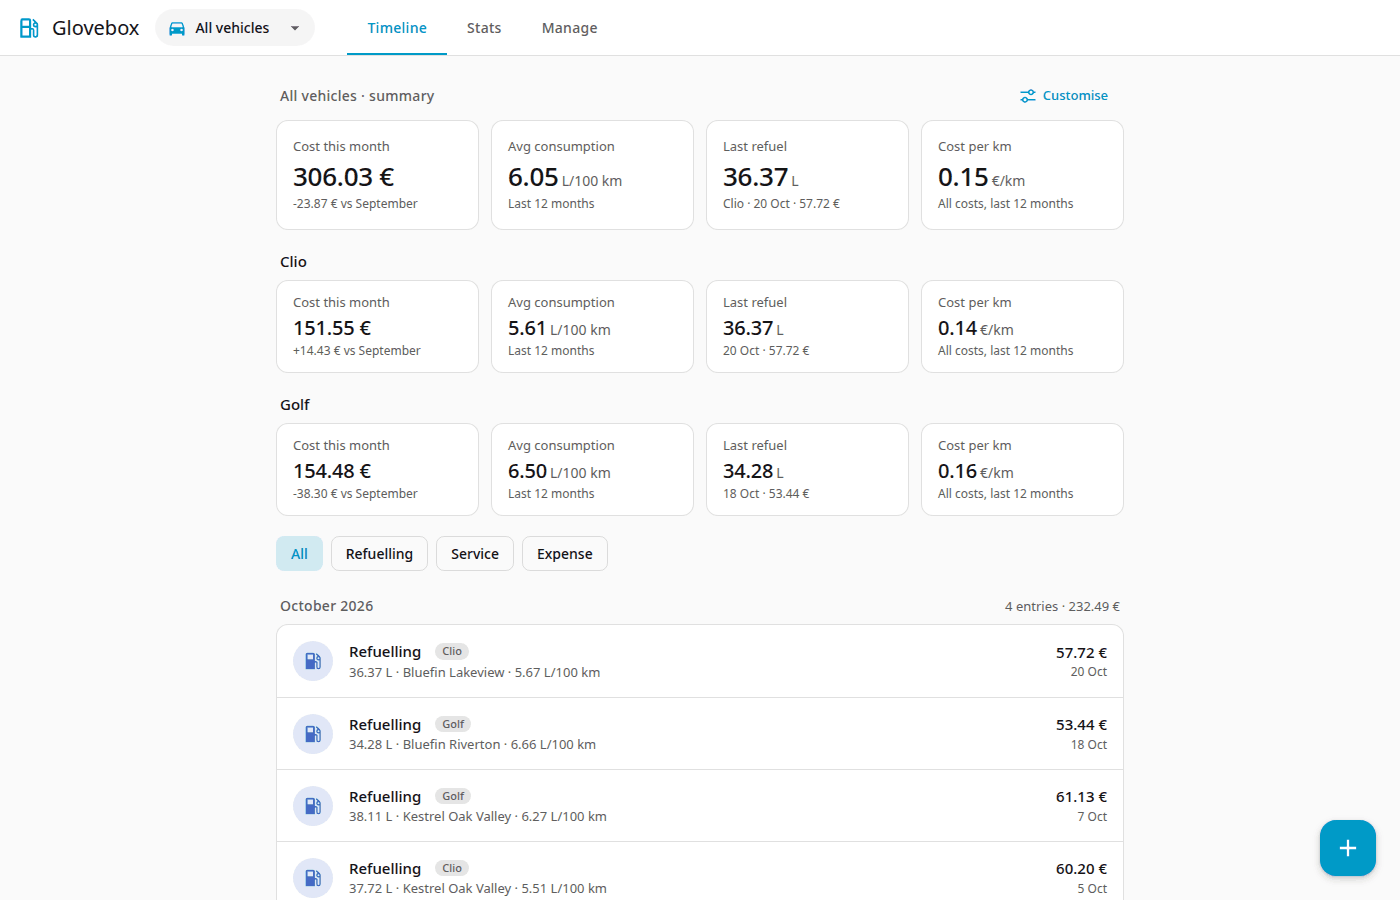
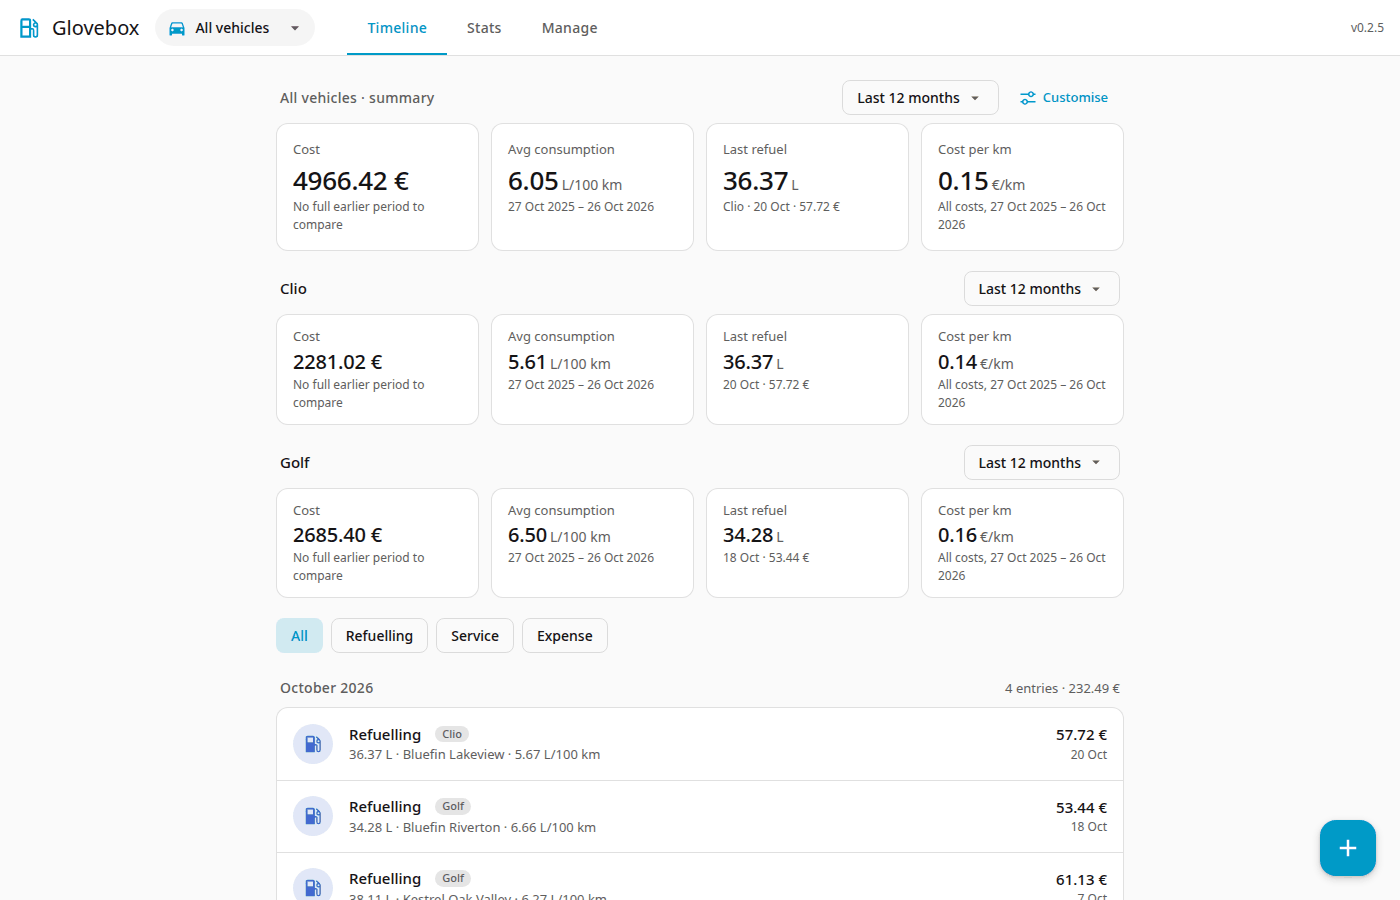
Refresh outdated docs screenshots, drop chooser from reminders spec

diff --git a/openspec/changes/add-reminders/design.md b/openspec/changes/add-reminders/design.md
@@ -73,7 +73,7 @@ The chosen calendar is one row in the existing `setting` table (`reminders.calen
 
 ### D2. UI
 
-All UI work goes through the living mockup `.mockups/ui-v2/` first (task 2.1), then into the app. The standard elements from `docs/dev/design.md` are reused: list card and rows, dialog, buttons, floating button chooser, sub-page header, messages.
+All UI work goes through the living mockup `.mockups/ui-v2/` first (task 2.1), then into the app. The standard elements from `docs/dev/design.md` are reused: list card and rows, dialog, buttons, floating button, sub-page header, messages.
 
 - **Timeline "Due soon" card:** a list card above the summary cards. It shows open reminders whose remind date has arrived, filtered by the app-bar vehicle (with all vehicles, the vehicle name is in each row). Order: overdue first, then by due date. Each row shows:
   - category icon, title, vehicle;
@@ -87,7 +87,7 @@ All UI work goes through the living mockup `.mockups/ui-v2/` first (task 2.1), t
   - the calendar setting (D4) with a status line.
 
   A row whose calendar state is not `synced` or `none` shows its message in one line.
-- **Reminder dialog** (also from a "Reminder" entry in the floating add chooser):
+- **Reminder dialog** (from "Add reminder" on the Reminders page):
   - fields: vehicle, title, category, due date, "Notify … days before" (default 30), notes;
   - in the edit dialog also: Download .ics, Mark done (or Reopen), Delete, "Created from: <expense>" when linked, and "Sync now" when not synced.
 - **"Remind me" on an expense:** a button in the expense edit dialog opens the reminder dialog pre-filled with:

diff --git a/openspec/changes/add-reminders/proposal.md b/openspec/changes/add-reminders/proposal.md
@@ -8,7 +8,7 @@ Insurance, registration and services come due once a year or so, and Glovebox al
 - **Quick create:**
   - "Remind me" on an expense: due date = coverage end if set, else expense date + 1 year.
   - From the vehicle's insurance and registration "valid until" dates (added by the concurrent vehicle-details change): a reminder linked to the date that moves with it.
-- **Timeline:** a "Due soon" card at the top for open reminders whose notify date has arrived, overdue first. A Reminders page (from the card and from Manage) lists all of them. The add chooser gets "Reminder".
+- **Timeline:** a "Due soon" card at the top for open reminders whose notify date has arrived, overdue first. A Reminders page (from the card and from Manage) lists all of them. The Reminders page has "Add reminder".
 - **Calendars:**
   1. **HA calendar (add-on mode):** the user picks any calendar entity HA can create events in.
      - Each open reminder becomes an all-day event on the due date, e.g. "Golf: Registration due". The description carries a machine-readable "Notify 30 days before" line and a marker line.

diff --git a/openspec/changes/add-reminders/tasks.md b/openspec/changes/add-reminders/tasks.md
@@ -22,7 +22,7 @@
 
 ## 2. UI (design iteration first)
 - [x] 2.1 (done 2026-10-23; the user has not reviewed the mockup yet) Add to `.mockups/ui-v2/`: the "Due soon" card, the Reminders page (with the calendar setting and status lines), the reminder dialog, "Remind me" in the expense dialog and form, the vehicle date switches. Desktop and phone, light and dark; record it in `NOTES.md`; get the user's feedback before 2.2.
-- [x] 2.2 `web/reminders.py` and templates: Reminders page, reminder dialog (default 30 days), add-chooser entry, Manage row.
+- [x] 2.2 `web/reminders.py` and templates: Reminders page, reminder dialog (default 30 days), Manage row (the add-chooser entry was dropped on 2026-10-26 when + started opening the quick Refuelling form).
 - [x] 2.3 Timeline "Due soon" card (`web/timeline.py`, `timeline.html`), filtered by the app-bar vehicle.
 - [x] 2.4 "Remind me" on the expense dialog, and the switch on the add-expense form.
 - [x] 2.5 New repeated elements added to `docs/dev/design.md`. Screenshots (desktop 1400x900, phone 390x844, light and dark) compared with the mockup.

diff --git a/openspec/changes/add-reminders/specs/reminders/spec.md b/openspec/changes/add-reminders/specs/reminders/spec.md
@@ -97,7 +97,7 @@ The Timeline SHALL show a "Due soon" card above the summary cards. The card SHAL
 - **THEN** the reminder is marked done and the row disappears
 
 ### Requirement: Reminders page
-The system SHALL provide a Reminders page, reachable from the "Due soon" card and from Manage. It SHALL list the open reminders by due date and the done reminders in a collapsed section, filtered by the app-bar vehicle. The add chooser SHALL offer "Reminder", which opens the reminder form.
+The system SHALL provide a Reminders page, reachable from the "Due soon" card and from Manage. It SHALL list the open reminders by due date and the done reminders in a collapsed section, filtered by the app-bar vehicle. The Reminders page SHALL offer "Add reminder", which opens the reminder form.
 
 #### Scenario: Open the list from Manage
 - **WHEN** the user opens Manage and selects Reminders

diff --git a/docs/user/records.md b/docs/user/records.md
@@ -2,8 +2,8 @@
 
 Tap **+** on the Timeline. It opens the quick **Refuelling** form, with the tabs **Refuelling**, **Service** and **Expense** under the title to switch the type (the vehicle is kept, entered values are not). Reminders are added on the Reminders page; see [Reminders](reminders.md). Every form has a **Vehicle** dropdown. It starts with the selected vehicle, or with the last specific vehicle when *All vehicles* is selected.
 
-![Add entry on a phone](../assets/screenshots/add-chooser-phone-light.png){ width="260" }
-![Add entry on a desktop](../assets/screenshots/add-chooser-desktop-light.png)
+![Quick add on a phone](../assets/screenshots/quick-add-phone-light.png){ width="260" }
+![Quick add on a desktop](../assets/screenshots/quick-add-desktop-light.png)
 
 To edit or delete a record, open it from the Timeline.
 

diff --git a/docs/user/first-steps.md b/docs/user/first-steps.md
@@ -10,7 +10,7 @@ Open the folded **More details** card for facts you want at hand: VIN (the copy 
 
 ## 2. Add a refuelling
 
-Tap the **+** button on the Timeline and choose **Refuelling**.
+Tap the **+** button on the Timeline. It opens the quick **Refuelling** form.
 
 ![Refuelling form](../assets/screenshots/refuel-form-desktop-light.png)
 
